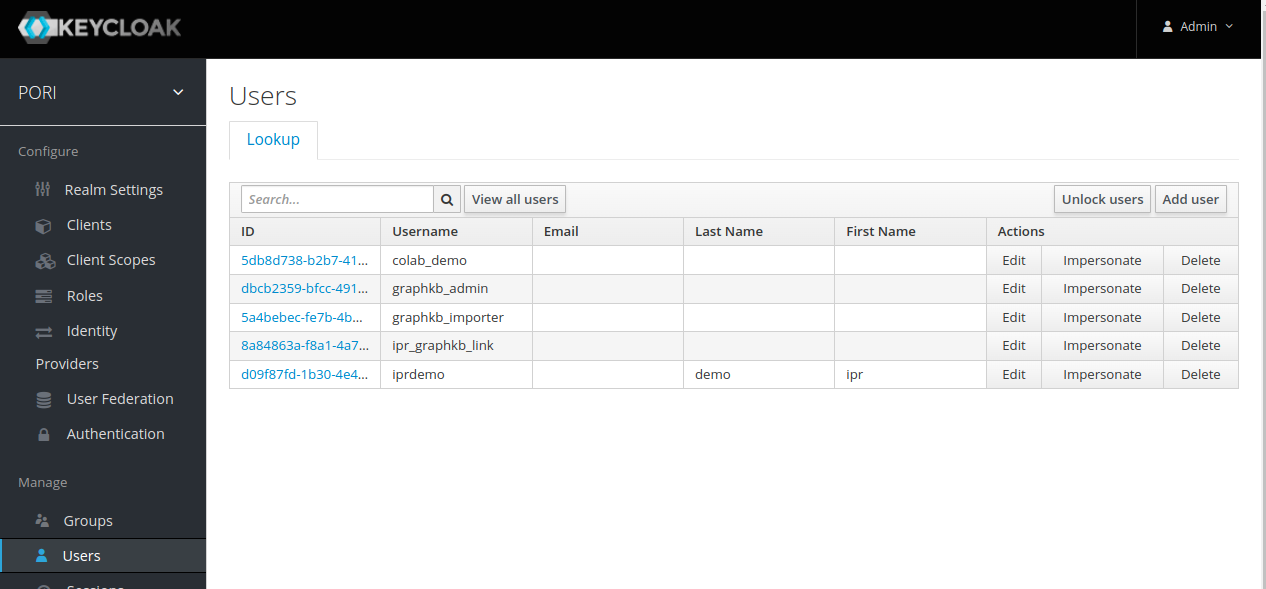
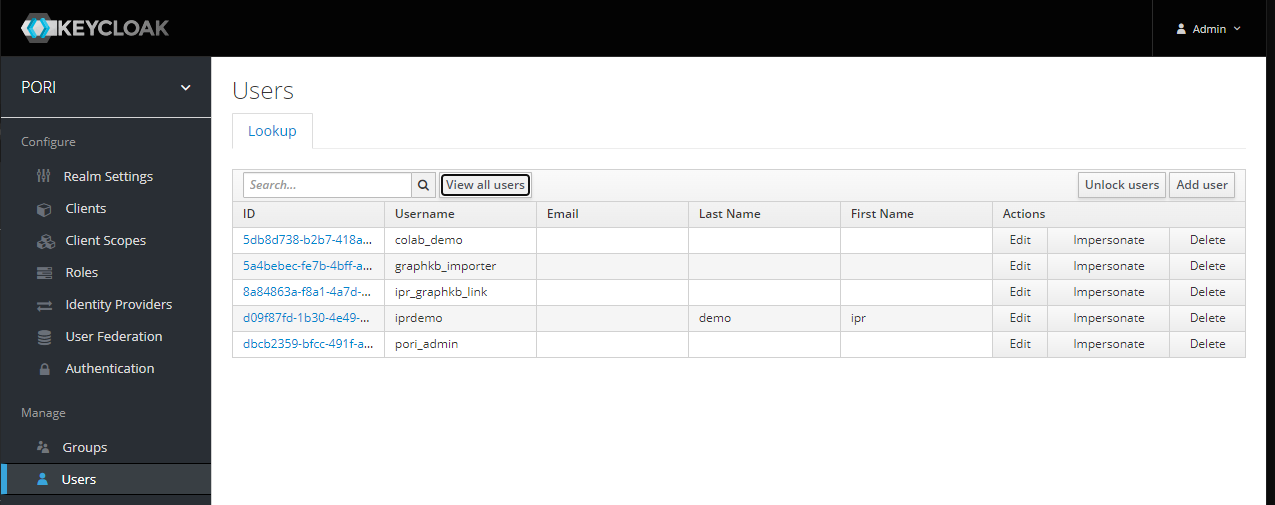
Change keycloak users in docker docs

diff --git a/docs/install.md b/docs/install.md
@@ -30,7 +30,8 @@ For convenience there are also a number of default users which all have the defa
 | Name             | Default in DB | Purpose                                                                                                                                              |
 | ---------------- | ------------- | ---------------------------------------------------------------------------------------------------------------------------------------------------- |
 | graphkb_importer | GraphKB       | This is the default user that is created when the new GraphKB DB is created. It is an admin user that can be used to add new users or import content |
-| ipr_graphkb_link | GraphKB       | This is the user used by IPR to pull data from GraphKB                                                                                               |
+| ipr_graphkb_link | GraphKB       | This is the user used by IPR to pull data from GraphKB
+| iprdemo          | IPR           | This is an admin user in the IPR demo db                                                                                               |
 | pori_admin       | GraphKB & IPR | This is an admin user allowing single sign on accross PORI                                                                                           |
 
 ![default users](./images/pori-keycloak-default-users.png)
